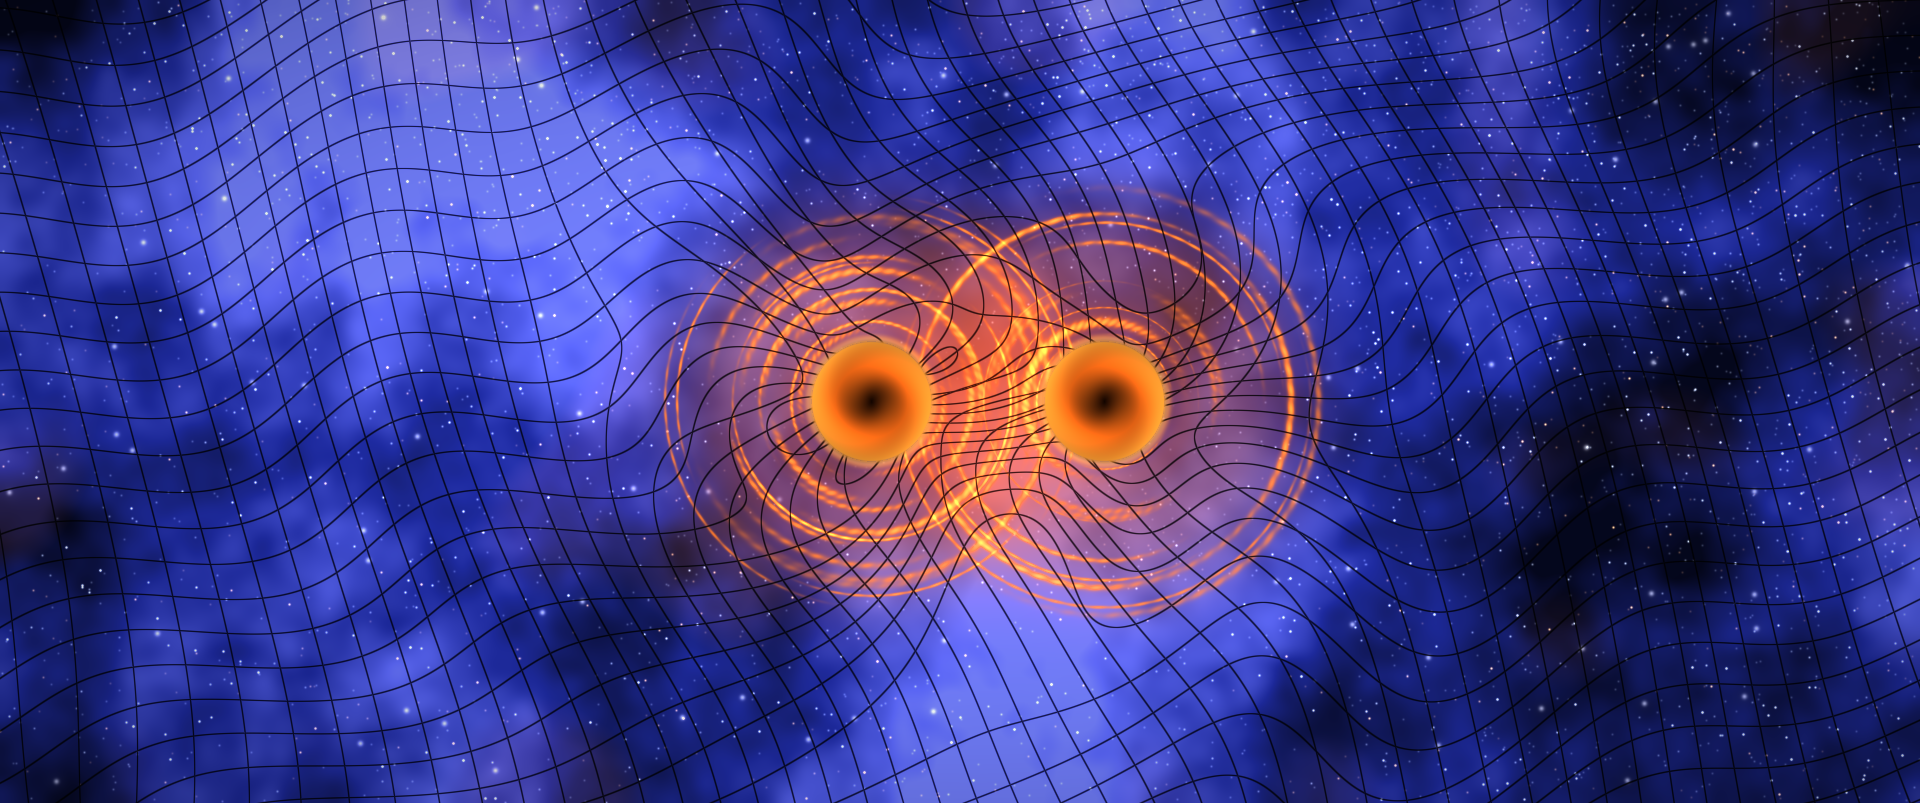
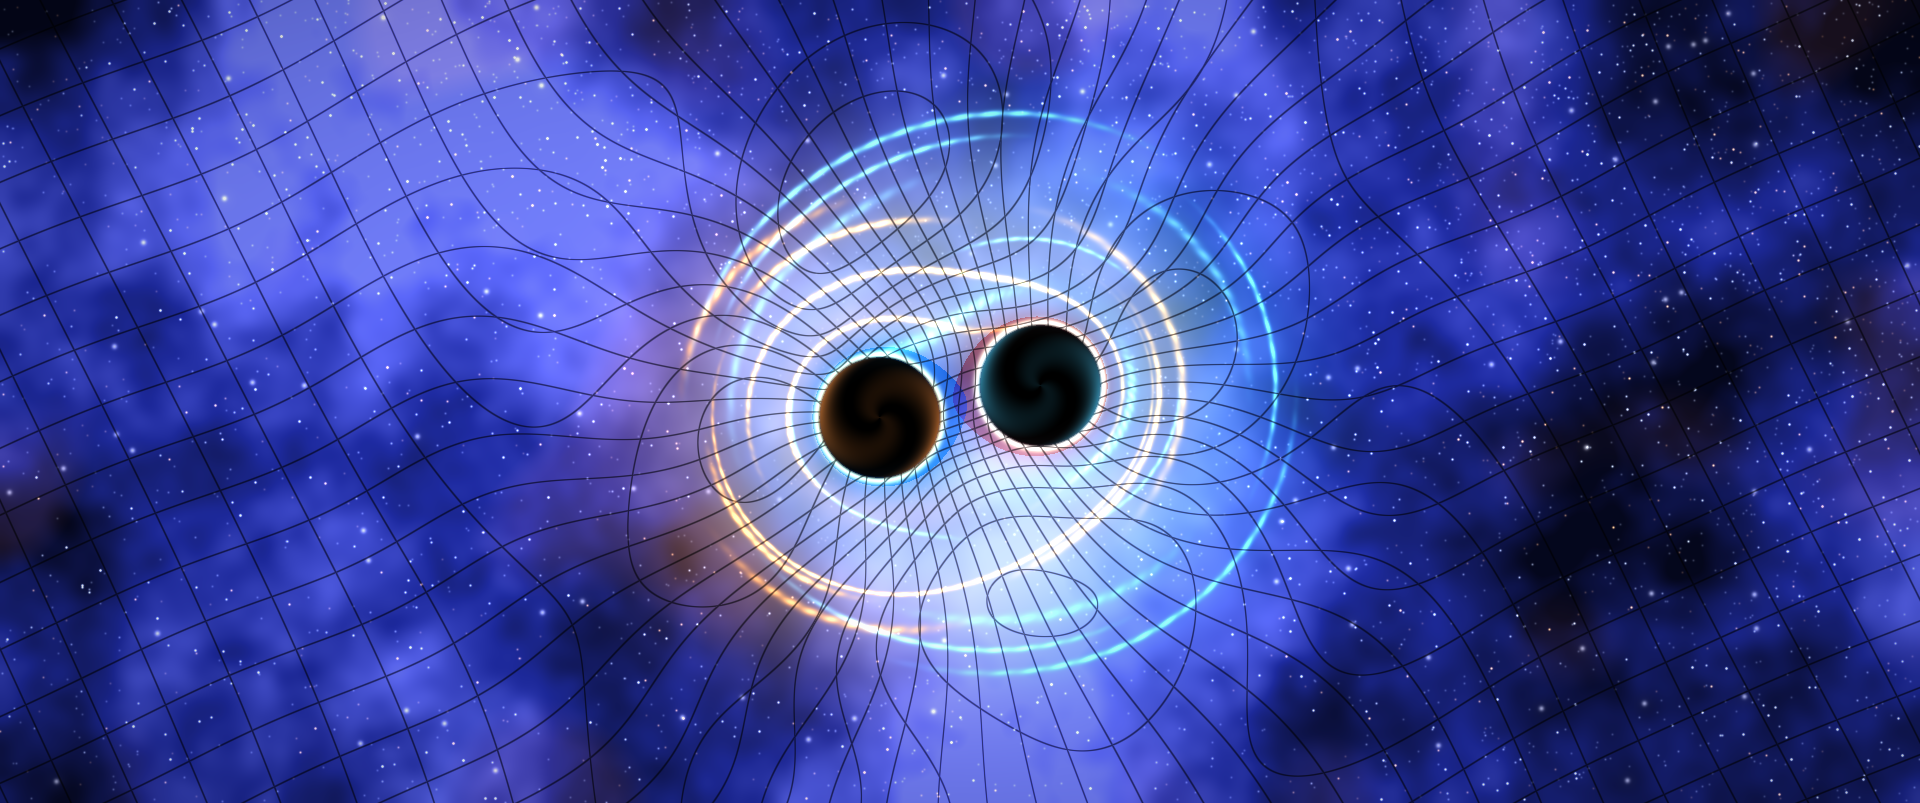
ื

diff --git a/playground/xWaves/swirlHoles.py b/playground/xWaves/swirlHoles.py
@@ -1,10 +1,11 @@
 """
 Crosstalk of two black holes: warped spacetime grid + swirling light rings + star field.
-Colors accurately calibrated to match the reference graphic's warm amber core & fire orange rings.
+Two wave systems (one per hole) travel toward each other and distort the grid in between.
 
 Usage:
     python crosstalk_bh.py            # -> crosstalk_bh.png  (1920 px wide)
     python crosstalk_bh.py --gif      # + crosstalk_bh.gif   (looping)
+    python crosstalk_bh.py --sheet    # contact sheet of parameter variants
 Needs: numpy, scipy, matplotlib, Pillow
 """
 import os
@@ -13,63 +14,61 @@ import numpy as np
 import matplotlib
 matplotlib.use("Agg")
 import matplotlib.pyplot as plt
+from matplotlib.colors import LinearSegmentedColormap
 from scipy.ndimage import gaussian_filter
 
 # ---------------- frame ----------------
-ASPECT = 2.39            # 2.39 = cinematic scope
+ASPECT = 2.39            # 2.39 = cinematic scope, 16/9 = HD, 1.85 = same as the reference photo
 WIDTH  = 1920
 SEED   = 7
 
 # ---------------- black holes ----------------
-P1 = np.array([-0.22,  0.0])      # holes in world units
-P2 = np.array([ 0.36,  0.0])
+P1 = np.array([-0.20, -0.04])      # holes in world units (y in [-1,1], x in [-ASPECT,ASPECT])
+P2 = np.array([ 0.20, 0.04])
 R1, R2 = 0.15, 0.15                # horizon radii
 
 # ---------------- crossing waves (they distort the grid) ----------------
-K = 3.14        # wavenumber of the waves each hole sends out
-M        = 2            # spiral twist of the wavefronts (integer)
-WAVE_AMP = 0.115  # grid displacement from the waves
-WAVE_DEC = 5.0  # how far the waves reach
-CROSS = 0.8  # extra displacement where the two waves overlap (the crosstalk)
-SWIRL = 0.22  # tangential twist of the grid around each hole
-PULL = 0.85  # grid squeezed towards each hole
+K = 5  # wavenumber of the waves each hole sends out
+M        = 2        # spiral twist of the wavefronts (integer)
+WAVE_AMP = 0.10 # grid displacement from the waves
+WAVE_DEC = 0.9  # how far the waves reach
+CROSS = 1  # extra displacement where the two waves overlap (the crosstalk)
+SWIRL = 0.1  # tangential twist of the grid around each hole
+PULL = 2  # grid squeezed towards each hole
 
 # ---------------- grid ----------------
-GRID_STEP = 0.1   # cell size (world units)
-GRID_ROT   = -14.0 # grid rotation (deg)
+GRID_STEP = 0.15  # cell size (world units)
+GRID_ROT   = -25.0 # grid rotation (deg)
 GRID_LINE  = 2.5   # line thickness (pixels)
-GRID_ALPHA = 0.8   # 1 = fully black lines
+GRID_ALPHA = 0.6  # 1 = fully black lines
 
 # ---------------- colour of the black holes ----------------
-# กำหนดค่าสีตามรูปอ้างอิง:
-# Base Halo/Rings: สีส้มเพลิงเรืองแสง (Bright Fire Orange)
-# Hot Rim/Core Edge: สีส้มอำพัน/ทองนวลสว่าง (Warm Amber Gold)
+# each hole: (base colour of halo + rings, hot colour of the brightest rings / horizon rim)  RGB 0-1
 PALETTES = {
-    "fire_ice": [
-        ((1.00, 0.38, 0.05), (1.00, 0.68, 0.22)),
-        ((1.00, 0.38, 0.05), (1.00, 0.68, 0.22)),
-    ],
+    "fire_ice": [((1.00, 0.45, 0.10), (1.00, 0.88, 0.55)),     # hole 1: orange / gold
+                 ((0.10, 0.75, 1.00), (0.80, 1.00, 1.00))],    # hole 2: cyan / ice
     "fire":     [((1.00, 0.42, 0.08), (1.00, 0.85, 0.50))] * 2,
     "violet":   [((0.75, 0.25, 1.00), (1.00, 0.80, 1.00)),
                  ((1.00, 0.30, 0.55), (1.00, 0.85, 0.80))],
-    "ice":      [((0.35, 0.50, 1.00), (0.85, 0.92, 1.00))] * 2,
+    "ice":      [((0.35, 0.50, 1.00), (0.85, 0.92, 1.00))] * 2,  # the original blue look
 }
 PALETTE     = "fire_ice"
-RING_COVER  = 0.75      # how strongly rings replace the blue sky
-RIM_GLOW    = 1.1       # bright rim hugging the horizon
-
-# ---------------- ดิสก์ตรงกลาง (Core Parameters) ----------------
-CORE_EDGE   = 0.9      # ความสว่างขอบดิสก์ส้มอำพัน
-CORE_CENTER = 0.02      # ความสว่างใจกลาง (มืดเกือบสนิท)
-CORE_POWER  = 0.01       # การลาดเอียงของสีเข้าสู่ใจกลาง
-CORE_SWIRL  = 0.1      # ลวดลายหมุนวนบางๆ
+RING_COVER  = 0.7      # how strongly rings replace the blue sky (keeps orange orange)
+RING_COUPLE = 0.4      # how strongly each hole bends the other's rings (0 = independent circles)
+RIM_GLOW    = 1.4       # bright rim hugging the horizon
+# the disc in the middle (0 for CORE_EDGE = plain black)
+CORE_EDGE   = 0.3      # brightness of the coloured disc at the horizon edge
+CORE_CENTER = 0.05      # brightness at the very centre
+CORE_POWER  = 7       # how quickly the colour falls off towards the centre
+CORE_SWIRL  = 1.1      # faint spiral texture inside the disc
 
 # ---------------- light rings ----------------
-RING_GAIN = 0.5
-STAR_N    = 3000  
-BLOOM     = 0.30
-VIGNETTE  = 0.35
+RING_GAIN = 0.7      # how bright the rings are (0 = invisible, 1 = full colour)
+STAR_N = 3000  
+BLOOM     = 0.3
+VIGNETTE  = 0.3
 GRAIN     = 0.0
+nRings    = 5           # number of rings per hole
 
 def smoothstep(a, b, x):
     t = np.clip((x - a) / (b - a + 1e-12), 0, 1)
@@ -86,7 +85,7 @@ def make_world(width):
     X, Y = np.meshgrid(x, y)
     return X, Y, w, h
 
-# ---------------- background ----------------
+# ---------------- background: nebula + stars ----------------
 def background(X, Y, w, h, rng):
     n1 = noise2d(h, w, w / 18, rng)
     n2 = noise2d(h, w, w / 60, rng)
@@ -99,13 +98,17 @@ def background(X, Y, w, h, rng):
     t = neb[..., None]
     img = np.where(t < 0.5, c_dark + (c_mid - c_dark) * (t / 0.5),
                             c_mid + (c_hi - c_mid) * ((t - 0.5) / 0.5))
+    # a few warm dust lanes
     dust = np.clip(noise2d(h, w, w / 35, rng) - 0.8, 0, 1)
     img = img + dust[..., None] * np.array([0.10, 0.05, 0.03])
     return img
 
 def stars(X, Y, w, h, rng):
     layer = np.zeros((h, w, 3))
+    # denser towards the upper right
     prob = 0.35 + 0.65 * smoothstep(-0.2, 1.0, (X / ASPECT + Y) * 0.5 + 0.2)
+    ys, xs, keep = [], [], []
+    N = STAR_N * int(w / 1200 + 0.5) ** 2 if w > 1200 else STAR_N
     N = int(STAR_N * (w / 1200) ** 2)
     xi = rng.integers(0, w, N); yi = rng.integers(0, h, N)
     ok = rng.random(N) < prob[yi, xi]
@@ -116,6 +119,7 @@ def stars(X, Y, w, h, rng):
     for c in range(3):
         np.add.at(layer[..., c], (yi, xi), (0.25 + 1.6 * mag) * col[:, c])
     small = gaussian_filter(layer, (0.8, 0.8, 0))
+    # a handful of big bright stars with a soft halo
     big = np.zeros((h, w, 3))
     nb = 90
     bx = rng.integers(0, w, nb); by = rng.integers(0, h, nb)
@@ -124,24 +128,37 @@ def stars(X, Y, w, h, rng):
     big = gaussian_filter(big, (1.8, 1.8, 0)) + 0.5 * gaussian_filter(big, (6, 6, 0))
     return small * 3.4 + big * 1.3
 
+# ---------------- shared geometry: combined (Roche-like) radius ----------------
+GRID_FOLLOW = 1.0       # 0 = grid warps around each hole as plain circles, 1 = grid follows the bent rings
+
+def r_eff(X, Y, k):
+    """Effective radius of hole k in the field of both holes: 1/r_eff = 1/r + c (R_other/R) / r_other.
+    Its level sets are the bent 'rings' (stretched towards the neighbour, pinched at the saddle)."""
+    holes = ((P1, R1), (P2, R2))
+    P, R = holes[k]; Po, Ro = holes[1 - k]
+    r = np.hypot(X - P[0], Y - P[1]) + 1e-6
+    ro = np.hypot(X - Po[0], Y - Po[1]) + 1e-6
+    return 1.0 / (1.0 / r + RING_COUPLE * (Ro / R) / ro), r
+
 # ---------------- displacement of the spacetime grid ----------------
 def displacement(X, Y, t):
     dx = np.zeros_like(X); dy = np.zeros_like(Y)
     waves = []
-    for P in (P1, P2):
+    for k, P in enumerate((P1, P2)):
         ex, ey = X - P[0], Y - P[1]
-        r = np.hypot(ex, ey) + 1e-6
+        re, r = r_eff(X, Y, k)
+        rg = r + GRID_FOLLOW * (re - r)                  # radius that shapes the warp
         rx, ry = ex / r, ey / r
         th = np.arctan2(ey, ex)
-        amp = np.exp(-r / WAVE_DEC)
-        wv = amp * np.cos(K * r + M * th - t)
+        amp = np.exp(-rg / WAVE_DEC)
+        wv = amp * np.cos(K * rg + M * th - t)           # wavefronts follow the bent rings
         waves.append(wv)
-        dx += WAVE_AMP * wv * rx;  dy += WAVE_AMP * wv * ry
-        sw = SWIRL * np.exp(-(r / 0.55) ** 2)
+        dx += WAVE_AMP * wv * rx;  dy += WAVE_AMP * wv * ry          # radial wave
+        sw = SWIRL * np.exp(-(rg / 0.55) ** 2)                        # twist (frame dragging)
         dx += sw * (-ry);          dy += sw * rx
-        pl = PULL * np.exp(-(r / 0.45) ** 2)
+        pl = PULL * np.exp(-(rg / 0.45) ** 2)                         # funnel
         dx += pl * ex;             dy += pl * ey
-
+    # crosstalk: where the two wave systems meet they add a shear along the connecting line
     d = P2 - P1; d = d / np.linalg.norm(d); nrm = np.array([-d[1], d[0]])
     cross = waves[0] * waves[1]
     dx += CROSS * WAVE_AMP * 3 * cross * nrm[0]
@@ -157,25 +174,31 @@ def grid_lines(X, Y, w, t):
     out = np.zeros_like(U)
     for G in (U, V):
         gy, gx = np.gradient(G)
-        width = (np.abs(gx) + np.abs(gy)) * GRID_LINE * 0.5 + 1e-6
+        width = (np.abs(gx) + np.abs(gy)) * GRID_LINE * 0.5 + 1e-6      # in grid units
         dist = np.abs(G - np.round(G))
         out = np.maximum(out, 1 - smoothstep(0.0, 1.0, dist / width))
     return out
 
-# ---------------- swirling light rings ----------------
+# ---------------- swirling light rings around each hole ----------------
 def rings(X, Y, w, h, t, rng_seed=3):
     rng = np.random.default_rng(rng_seed)
     light = np.zeros((h, w, 3))
-    for k, (P, R) in enumerate(((P1, R1), (P2, R2))):
+    holes = ((P1, R1), (P2, R2))
+    for k, (P, R) in enumerate(holes):
+        Po, Ro = holes[1 - k]
         ex, ey = X - P[0], Y - P[1]
         r = np.hypot(ex, ey) + 1e-6
         th = np.arctan2(ey, ex)
-        rr = r / R
-        base, hot = (np.array(c) for c in PALETTES[PALETTE][k % 2])
-        
+        # rings follow equipotentials of BOTH holes (see r_eff)
+        r_e, _ = r_eff(X, Y, k)
+        rr = r_e / R                 # used by halo and rings
+        rr_true = r / R              # used to keep the disc and rim attached to the hole itself
+        blue, pale = (np.array(c) for c in PALETTES[PALETTE][k % 2])
+        # broad coloured halo
         halo = (np.exp(-((rr - 2.1) / 1.3) ** 2) + 0.5 * np.exp(-((rr - 1.3) / 0.35) ** 2)) * (rr > 1.0)
+        # concentric bright rings (random radii/strength) broken up along the angle
         ring = np.zeros_like(r)
-        for j in range(14):
+        for j in range(nRings):
             Rj = rng.uniform(1.12, 3.6)
             sj = rng.uniform(0.015, 0.07)
             aj = rng.uniform(0.35, 1.0)
@@ -184,45 +207,35 @@ def rings(X, Y, w, h, t, rng_seed=3):
             gate = 0.5 + 0.5 * np.cos(kk * tw + ph)
             gate = smoothstep(0.15, 0.95, gate)
             ring += aj * gate * np.exp(-((rr - Rj) / sj) ** 2)
-            
+        # fine light-trail streaks along the angular direction
         streak = gaussian_filter(rng.normal(size=(h, w)), (0.6, 0.6))
         trail = 0.55 + 0.45 * np.cos(60 * th + 6 * np.log(rr + 0.2) * 10)
         ring *= (0.55 + 0.45 * trail)
-        inner = smoothstep(0.98, 1.12, rr)
+        inner = smoothstep(0.98, 1.12, rr_true)                  # rings stay outside the disc
         a = (0.85 * halo + 1.6 * ring) * inner
-        rim = np.exp(-((rr - 1.04) / 0.07) ** 2) * (rr > 1.0)
-        
-        light += a[..., None] * (base * 0.85 + hot * (0.35 * np.clip(ring[..., None] * 2, 0, 1)))
-        light += (RIM_GLOW * rim)[..., None] * hot
+        rim = np.exp(-((rr_true - 1.04) / 0.07) ** 2) * (rr_true > 1.0)
+        light += a[..., None] * (blue * 0.75 + pale * (0.45 * np.clip(ring[..., None] * 2, 0, 1)))
+        light += (RIM_GLOW * rim)[..., None] * pale
     return light * RING_GAIN
 
-# ---------------- paint_holes (ขอบส้มทองอำพันแบบในรูปเป๊ะๆ) ----------------
+def hole_mask(X, Y):
+    m = np.ones_like(X)
+    for P, R in ((P1, R1), (P2, R2)):
+        r = np.hypot(X - P[0], Y - P[1])
+        m *= smoothstep(R * 0.97, R * 1.06, r)
+    return m
+
 def paint_holes(img, X, Y):
-    """ ปรับแก้การผสมสีในดิสก์ให้ขอบนอกเป็นส้มอำพันเรืองแสง แล้วค่อยๆ มืดลงเป็นส้มน้ำตาลเข้ม """
+    """Coloured disc: palette colour, bright at the edge and dark in the middle."""
     for k, (P, R) in enumerate(((P1, R1), (P2, R2))):
         base, hot = (np.array(c) for c in PALETTES[PALETTE][k % 2])
-        
-        # สีขอบดิสก์ (Amber Gold) และสีตรงกลาง (Dark Brown-Orange)
-        c_edge = hot                          # [1.00, 0.68, 0.22] - ส้มอำพันเรืองแสงตรงขอบ
-        c_mid  = base * 0.7 + hot * 0.3       # ส้มอมน้ำตาลทอง
-        c_dark = np.array([0.08, 0.02, 0.00])  # เกือบดำสนิทที่ใจกลาง
-        
         ex, ey = X - P[0], Y - P[1]
         r = np.hypot(ex, ey)
         th = np.arctan2(ey, ex)
         u = np.clip(r / R, 0, 1)
-        
         swirl = 1 + CORE_SWIRL * np.cos(2 * th + 7 * u)
-        lvl = (CORE_CENTER + (CORE_EDGE - CORE_CENTER) * (u ** CORE_POWER)) * swirl
-        
-        # การไล่เฉดสีในดิสก์จาก ดำ -> ส้มน้ำตาล -> ส้มทองอำพันตรงขอบสุด
-        color_grad = np.where(
-            u[..., None] < 0.6,
-            c_dark + (c_mid - c_dark) * (u[..., None] / 0.6),
-            c_mid + (c_edge - c_mid) * ((u[..., None] - 0.6) / 0.4)
-        )
-        
-        core = lvl[..., None] * color_grad
+        lvl = (CORE_CENTER + (CORE_EDGE - CORE_CENTER) * u ** CORE_POWER) * swirl
+        core = lvl[..., None] * (0.75 * base + 0.25 * hot)
         inside = 1 - smoothstep(R * 0.97, R * 1.06, r)
         img = img * (1 - inside)[..., None] + core * inside[..., None]
     return img
@@ -231,32 +244,27 @@ def paint_holes(img, X, Y):
 def render(t=0.0, width=WIDTH, seed=SEED):
     X, Y, w, h = make_world(width)
     rng = np.random.default_rng(seed)
-    
     bg = background(X, Y, w, h, rng)
     st = stars(X, Y, w, h, rng)
-    
+    # stars are lensed away / dimmed close to the holes
     dim = np.ones_like(X)
     for P, R in ((P1, R1), (P2, R2)):
         dim *= 1 - 0.85 * np.exp(-(np.hypot(X - P[0], Y - P[1]) / (R * 2.4)) ** 2)
-        
     img = bg + st * dim[..., None]
     light = rings(X, Y, w, h, t)
-    cov = np.clip(light.max(axis=2) * 1.1, 0, 1)
+    cov = np.clip(light.max(axis=2) * 1.1, 0, 1)             # ring colour replaces part of the blue sky
     img = img * (1 - RING_COVER * cov)[..., None] + light
-    
+    # soft glow around the holes
     img = np.clip(img, 0, 1.6)
-    
-    # Warped grid on top
+    # warped grid on top (dark lines)
     g = grid_lines(X, Y, w, t)
     img = img * (1 - GRID_ALPHA * g[..., None])
-    
-    # M87-colored Core on top
+    # coloured holes on top
     img = paint_holes(img, X, Y)
-    
+    # cinematic finish
     img = np.clip(img, 0, 1)
     if BLOOM > 0:
         img = np.clip(img + BLOOM * gaussian_filter(np.clip(img - 0.55, 0, 1), (w / 200, w / 200, 0)), 0, 1)
-        
     yy, xx = np.mgrid[0:h, 0:w]
     d = np.hypot((xx - w / 2) / (w / 2), (yy - h / 2) / (h / 2))
     img = img * (1 - VIGNETTE * np.clip(d - 0.45, 0, 1) ** 1.6)[..., None]
@@ -267,7 +275,7 @@ def save_static(path="playground/xWaves/crosstalk_bh.png", t=0.0, width=WIDTH):
     os.makedirs(os.path.dirname(path) or ".", exist_ok=True)
     plt.imsave(path, render(t, width)); print("saved", path)
 
-def save_gif(path="playground/xWaves/crosstalk_bh.gif", frames=30, width=800):
+def save_gif(path="crosstalk_bh.gif", frames=30, width=800):
     from PIL import Image
     imgs = [Image.fromarray((render(t, width) * 255).astype(np.uint8))
             for t in np.linspace(0, 2 * np.pi, frames, endpoint=False)]
